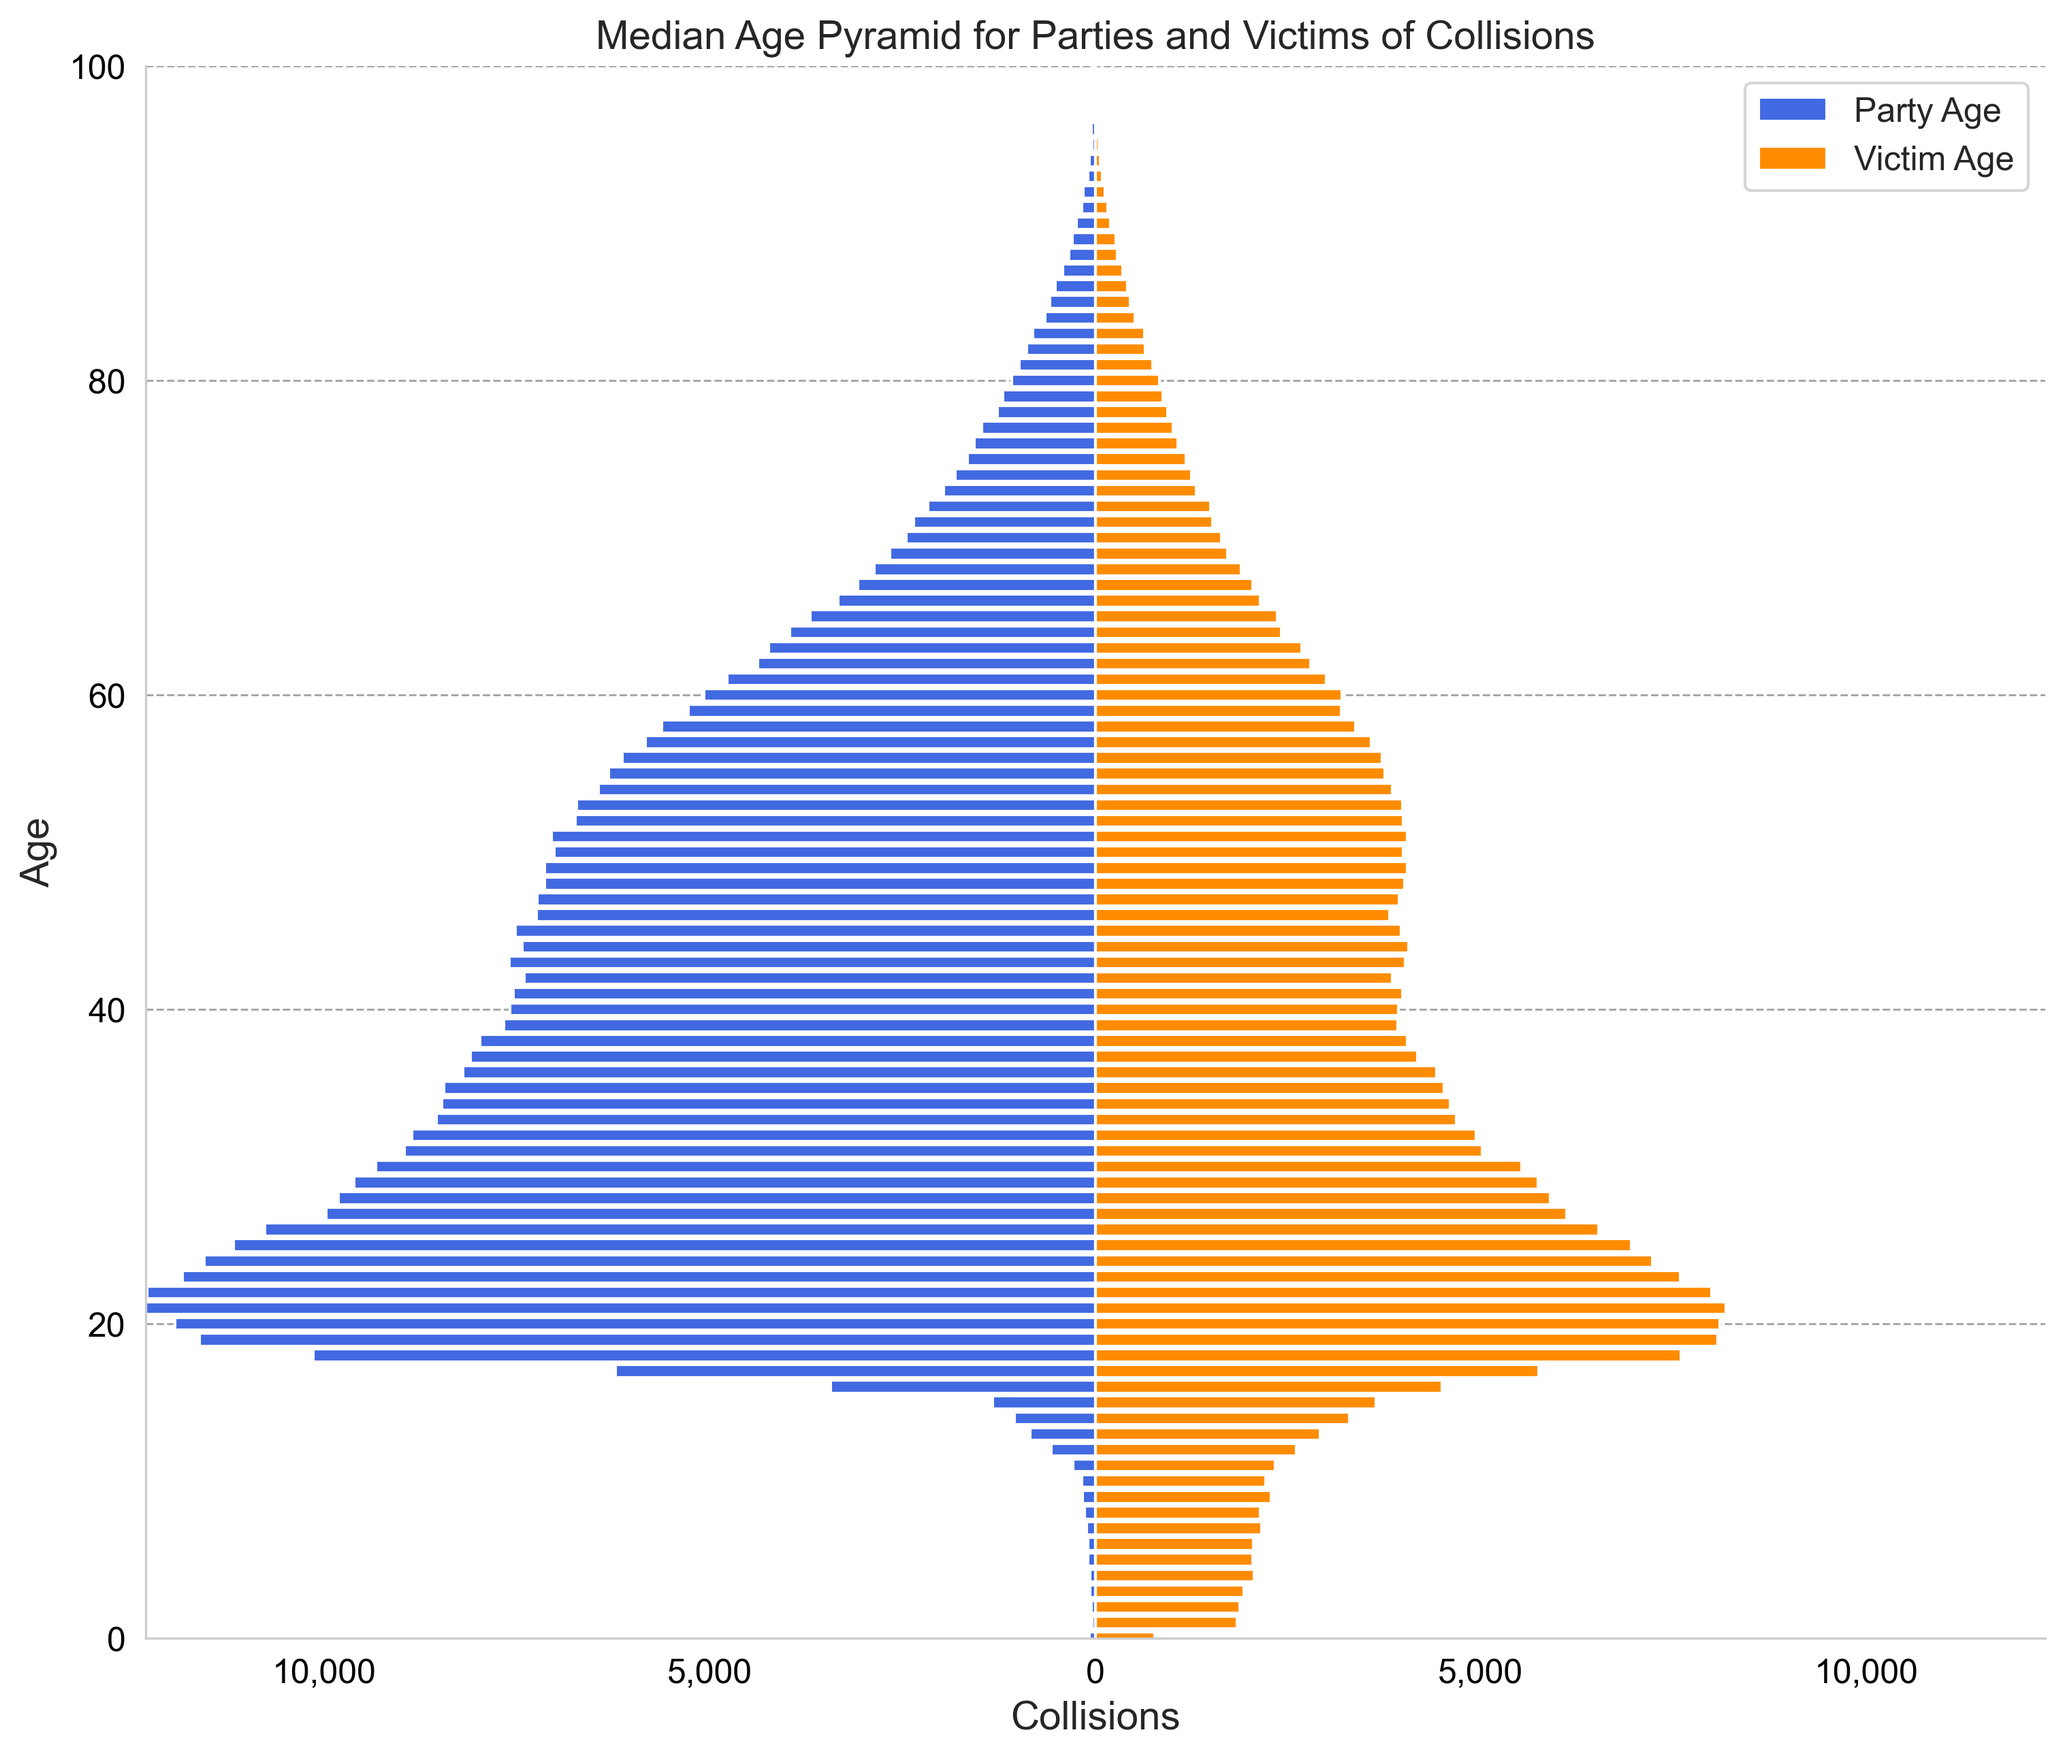
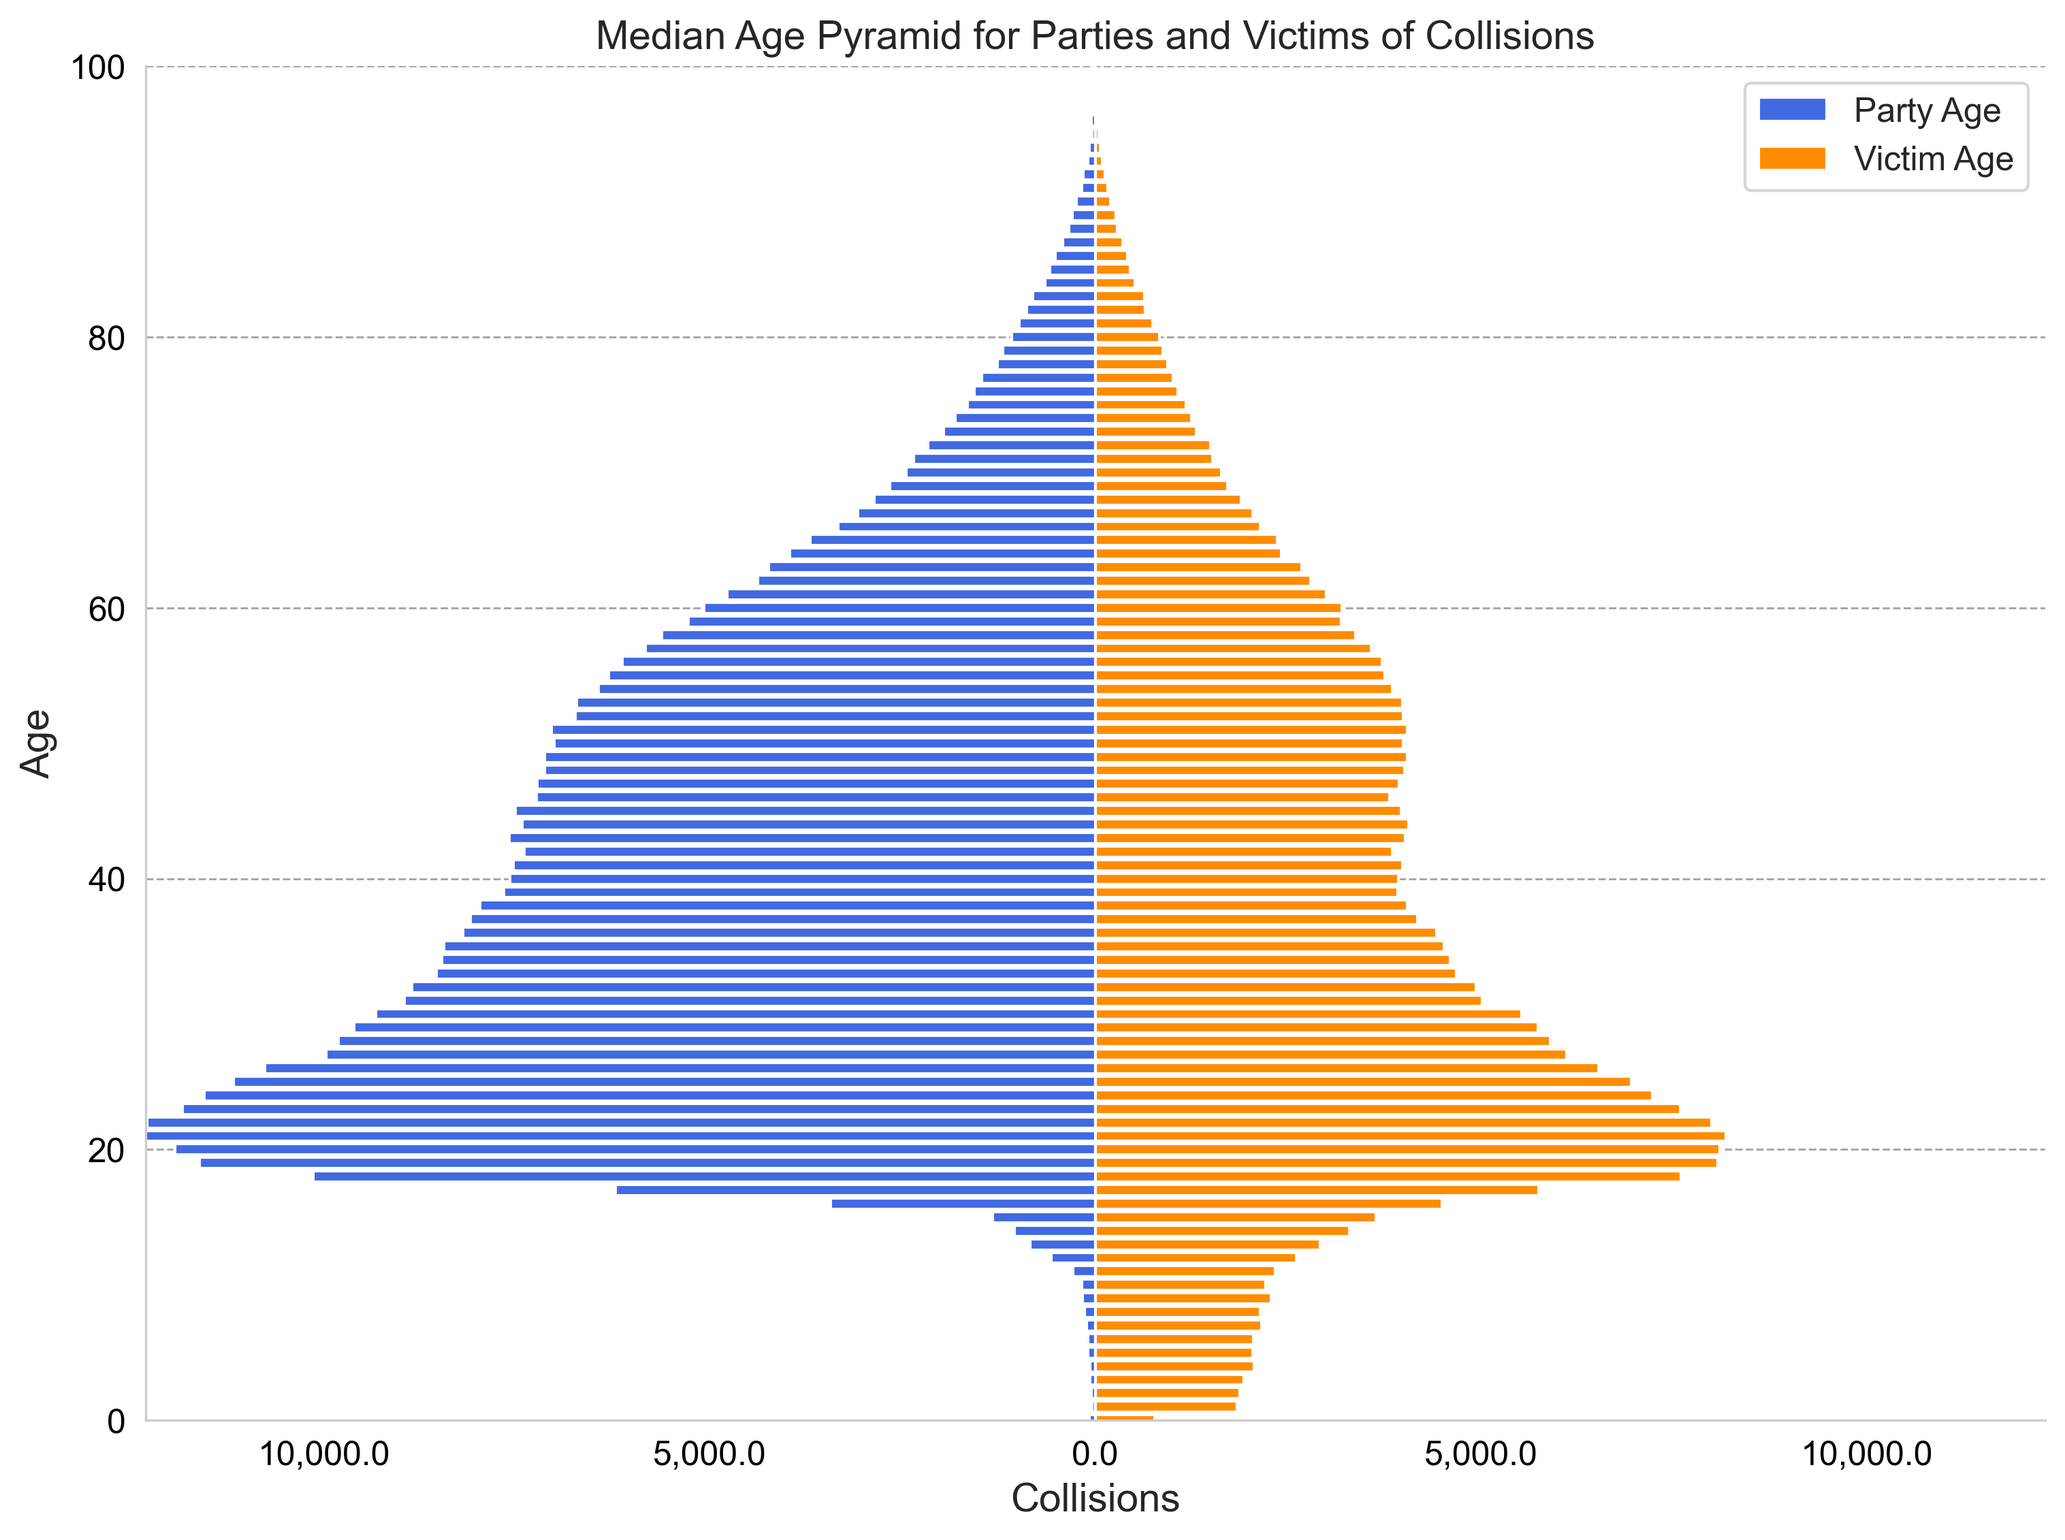
feat: Add scratch script, graphic, and LaTeX variable files; refactor string formatting and improve file encoding.

diff --git a/p04_collision_data_analysis.py b/p04_collision_data_analysis.py
@@ -368,11 +368,11 @@ tbl1_tests = pd.DataFrame(
     {
         "dataset": ["crashes", "parties", "victims", "parties", "victims"],
         "observations": [
-            "{:,}".format(crashes_chi2["observations"]),
-            "{:,}".format(parties_chi2["observations"]),
-            "{:,}".format(victims_chi2["observations"]),
-            "{:,}".format(parties_kw["observations"]),
-            "{:,}".format(victims_kw["observations"]),
+            f"{crashes_chi2['observations']:,}",
+            f"{parties_chi2['observations']:,}",
+            f"{victims_chi2['observations']:,}",
+            f"{parties_kw['observations']:,}",
+            f"{victims_kw['observations']:,}",
         ],
         "test": [
             crashes_chi2["test"],
@@ -416,30 +416,30 @@ tbl1_data = pd.DataFrame(
     {
         "severity": pd.concat([x1["severity"], pd.Series(["p-value"])], ignore_index = True),
         "crashes": pd.concat(
-            [x1["count"].apply(lambda x: "{:,}".format(x)), pd.Series([crashes_chi2["p-value_display"]])],
+            [x1["count"].apply(lambda x: f"{x:,}"), pd.Series([crashes_chi2["p-value_display"]])],
             ignore_index = True,
         ),
         "parties": pd.concat(
-            [x2["count"].apply(lambda x: "{:,}".format(x)), pd.Series([crashes_chi2["p-value_display"]])],
+            [x2["count"].apply(lambda x: f"{x:,}"), pd.Series([crashes_chi2["p-value_display"]])],
             ignore_index = True,
         ),
         "victims": pd.concat(
-            [x3["count"].apply(lambda x: "{:,}".format(x)), pd.Series([crashes_chi2["p-value_display"]])],
+            [x3["count"].apply(lambda x: f"{x:,}"), pd.Series([crashes_chi2["p-value_display"]])],
             ignore_index = True,
         ),
         "party_mean": pd.concat(
-            [x2["mean"].apply(lambda x: "{:,.3f}".format(x)), pd.Series([parties_kw["p-value_display"]])],
+            [x2["mean"].apply(lambda x: f"{x:,.3f}"), pd.Series([parties_kw["p-value_display"]])],
             ignore_index = True,
         ),
-        "party_std": pd.concat([x2["std"].apply(lambda x: "{:,.3f}".format(x)), pd.Series([""])], ignore_index = True),
+        "party_std": pd.concat([x2["std"].apply(lambda x: f"{x:,.3f}"), pd.Series([""])], ignore_index = True),
         "party_range": pd.concat(
             [x2.apply(lambda row: f"{row['min']}-{row['max']}", axis = 1), pd.Series([""])], ignore_index = True
         ),
         "victim_mean": pd.concat(
-            [x3["mean"].apply(lambda x: "{:,.3f}".format(x)), pd.Series([victims_kw["p-value_display"]])],
+            [x3["mean"].apply(lambda x: f"{x:,.3f}"), pd.Series([victims_kw["p-value_display"]])],
             ignore_index = True,
         ),
-        "victim_std": pd.concat([x3["std"].apply(lambda x: "{:,.3f}".format(x)), pd.Series([""])], ignore_index = True),
+        "victim_std": pd.concat([x3["std"].apply(lambda x: f"{x:,.3f}"), pd.Series([""])], ignore_index = True),
         "victim_range": pd.concat(
             [x3.apply(lambda row: f"{row['min']}-{row['max']}", axis = 1), pd.Series([""])], ignore_index = True
         ),
@@ -508,8 +508,8 @@ tbl1_latex = tbl1_latex.replace("<", "\\textless{}")
 tbl1_latex = tbl1_latex.replace("mean", "\\textit{mean}")
 tbl1_latex = tbl1_latex.replace("std", "\\textit{std}")
 tbl1_latex = tbl1_latex.replace("range", "\\textit{range}")
-tbl1_latex = tbl1_latex.replace(f"Party Count", "Party Count\\footnotemark[1]")
-tbl1_latex = tbl1_latex.replace(f"Victim Count", "Victim Count\\footnotemark[1]")
+tbl1_latex = tbl1_latex.replace("Party Count", "Party Count\\footnotemark[1]")
+tbl1_latex = tbl1_latex.replace("Victim Count", "Victim Count\\footnotemark[1]")
 
 # Split the LaTeX table into lines for easier manipulation
 tbl1_latex_lines = tbl1_latex.splitlines()
@@ -549,7 +549,7 @@ print(tbl1_latex)
 # Define the path to save the LaTeX table
 tbl1_path = graphics_list["tables"]["tbl1"]["path"]
 # Save the LaTeX table to a file
-with open(tbl1_path, "w", encoding="utf-8") as f:
+with open(tbl1_path, "w", encoding = "utf-8") as f:
     f.write(tbl1_latex)
     print(f"\n- Table 1 saved to {tbl1_path}")
 
@@ -575,7 +575,7 @@ with open(latex_vars_path, "w", encoding = "utf-8") as json_file:
 
 # Save the LaTeX variables dictionary to a .tex file
 latex_vars_tex_path = os.path.join(prj_dirs["graphics"], "latex_vars.tex")
-with open(latex_vars_tex_path, "w") as f:
+with open(latex_vars_tex_path, "w", encoding = "utf-8") as f:
     for key, value in latex_vars.items():
         f.write(f"\\newcommand{{\\{key}}}{{{value}}}\n")
 
@@ -712,9 +712,9 @@ tbl2_tests = pd.DataFrame(
     {
         "dataset": ["crashes", "parties", "victims"],
         "observations": [
-            "{:,}".format(crashes_chi2["observations"]),
-            "{:,}".format(parties_chi2["observations"]),
-            "{:,}".format(victims_chi2["observations"]),
+            f"{crashes_chi2['observations']:,}",
+            f"{parties_chi2['observations']:,}",
+            f"{victims_chi2['observations']:,}",
         ],
         "test": [crashes_chi2["test"], parties_chi2["test"], victims_chi2["test"]],
         "statistic": [crashes_chi2["statistic"], parties_chi2["statistic"], victims_chi2["statistic"]],
@@ -835,7 +835,7 @@ print(tbl2_latex)
 # Define the path to save the LaTeX table
 tbl2_path = graphics_list["tables"]["tbl2"]["path"]
 # Save the LaTeX table to a file
-with open(tbl2_path, "w", encoding="utf-8") as f:
+with open(tbl2_path, "w", encoding = "utf-8") as f:
     f.write(tbl2_latex)
     print(f"\n- Table 2 saved to {tbl2_path}")
 
@@ -1462,9 +1462,9 @@ tbl4_latex = "\n".join(tbl4_latex_lines)
 # Delete the temporary latex lines
 del tbl4_latex_lines
 
-tbl4_latex = tbl4_latex.replace(f"Severity", "Severity\\footnotemark[2]")
-tbl4_latex = tbl4_latex.replace(f"Hit and Run", "Hit and Run\\footnotemark[3]")
-tbl4_latex = tbl4_latex.replace(f"Lighting", "Lighting\\footnotemark[4]")
+tbl4_latex = tbl4_latex.replace("Severity", "Severity\\footnotemark[2]")
+tbl4_latex = tbl4_latex.replace("Hit and Run", "Hit and Run\\footnotemark[3]")
+tbl4_latex = tbl4_latex.replace("Lighting", "Lighting\\footnotemark[4]")
 
 # Add footnotes after the table
 footnotes = (
@@ -1488,7 +1488,7 @@ print(tbl4_latex)
 # Define the path to save the LaTeX table
 tbl4_path = graphics_list["tables"]["tbl4"]["path"]
 # Save the LaTeX table to a file
-with open(tbl4_path, "w", encoding="utf-8") as f:
+with open(tbl4_path, "w", encoding = "utf-8") as f:
     f.write(tbl4_latex)
     print(f"\n- Table 4 saved to {tbl4_path}")
 
@@ -1619,27 +1619,27 @@ tbl5_mod = tbl5_data.copy().astype(str)
 
 # Create the LaTeX table from the data frame
 tbl5_latex = tbl5_mod.to_latex(
-    buf=None,
-    columns=None,
-    header=True,
-    index=False,
-    na_rep="NaN",
-    formatters=None,
-    float_format=None,
-    sparsify=None,
-    index_names=True,
-    bold_rows=False,
-    column_format="crrrrrrrrrrrrrrrr",
-    longtable=False,
-    escape=False,
-    encoding=None,
-    decimal=".",
-    multicolumn=True,
-    multicolumn_format="c",
-    multirow=True,
-    caption=graphics_list["tables"]["tbl5"]["caption"],
-    label=graphics_list["tables"]["tbl5"]["id"].lower(),
-    position=None,
+    buf = None,
+    columns = None,
+    header = True,
+    index = False,
+    na_rep = "NaN",
+    formatters = None,
+    float_format = None,
+    sparsify = None,
+    index_names = True,
+    bold_rows = False,
+    column_format = "crrrrrrrrrrrrrrrr",
+    longtable = False,
+    escape = False,
+    encoding = None,
+    decimal = ".",
+    multicolumn = True,
+    multicolumn_format = "c",
+    multirow = True,
+    caption = graphics_list["tables"]["tbl5"]["caption"],
+    label = graphics_list["tables"]["tbl5"]["id"].lower(),
+    position = None,
 )
 
 # Change the LaTeX table to use the 'sidewaystable' style
@@ -1668,7 +1668,7 @@ print(tbl5_latex)
 # Define the path to save the LaTeX table
 tbl5_path = graphics_list["tables"]["tbl5"]["path"]
 # Save the LaTeX table to a file
-with open(tbl5_path, "w", encoding="utf-8") as f:
+with open(tbl5_path, "w", encoding = "utf-8") as f:
     f.write(tbl5_latex)
     print(f"\n- Table 5 saved to {tbl5_path}")
 

diff --git a/octraffic.py b/octraffic.py
@@ -1961,13 +1961,11 @@ class OCTraffic:
         severity_std = data["severity"].std()
 
         # Function to format y-axis ticks for victims
-        #def victims_formatter(x, pos):
-        def victims_formatter(x):
+        def victims_formatter(x, pos):
             return f"{z_to_original(x, victims_mean, victims_std):.0f}"
 
         # Function to format y-axis ticks for severity
-        #def severity_formatter(x, pos):
-        def severity_formatter(x):
+        def severity_formatter(x, pos):
             return f"{z_to_original(x, severity_mean, severity_std):.2f}"
 
         # Apply formatters to axes
@@ -2083,8 +2081,7 @@ class OCTraffic:
         ax.barh(victim_data["Age"], victim_data["Freq"], color = "darkorange", label = "Victim Age")
 
         # Format x-axis labels with commas and no negative signs
-        #def abs_comma(x, pos):
-        def abs_comma(x):
+        def abs_comma(x, pos):
             result = f"{abs(x):,}" 
             return result
 

diff --git a/p05_time_series_analysis.py b/p05_time_series_analysis.py
@@ -23,7 +23,6 @@ print("\n1.1. Libraries and Initialization")
 # Import necessary libraries
 import os
 import datetime as dt
-import json
 import pandas as pd
 import matplotlib.pyplot as plt
 from dotenv import load_dotenv
@@ -816,7 +815,7 @@ fig9.savefig(
     backend = None,
 )
 
-plt.close(fig)  # Close the figure to free memory
+plt.close(fig9)  # Close the figure to free memory
 
 
 #~~~~~~~~~~~~~~~~~~~~~~~~~~~~~~~~~~~~~~~~~~~~~~~~~~~~~~~~~~~~~~~~~~~~~~~~~~~~~~~~
@@ -837,4 +836,4 @@ ocs.save_to_disk(
 #~~~~~~~~~~~~~~~~~~~~~~~~~~~~~~~~~~~~~~~~~~~~~~~~~~~~~~~~~~~~~~~~~~~~~~~~~~~~~~~~
 print("\nLast Execution:", dt.datetime.now().strftime("%Y-%m-%d"))
 print("\nEnd of Script")
-# Last Executed: 2025-12-26
+# Last Executed: 2025-12-30

diff --git a/scripts/scratch.py b/scripts/scratch.py
@@ -7,17 +7,3 @@ ocs = OCTraffic(part = 1, version = 2025.3)
 prj_meta = ocs.project_metadata(silent = False)
 prj_dirs = ocs.project_directories(silent = False)
 cb = ocs.load_cb()
-
-# Define the path to the raw geodatabase
-gdb_raw = prj_dirs["agp_gdb_raw"]
-gdbmain_raw = prj_dirs["gdbmain_raw"]
-
-prj_dirs["agp_gdb"]
-prj_dirs["gdbmain"]
-
-
-for fc in ["crashes", "parties", "victims", "collisions"]:
-    ocs.delete_feature_class(fc, gdb_path = prj_dirs["agp_gdb"], dataset = "raw")
-
-for fc in ["crashes", "parties", "victims", "collisions"]:
-    ocs.delete_feature_class(fc, gdb_path = prj_dirs["gdbmain"], dataset = "raw")

diff --git a/graphics/latex_vars.tex b/graphics/latex_vars.tex
@@ -1,5 +1,5 @@
 \newcommand{\prjVersion}{2025.3}
-\newcommand{\prjUpdated}{December 29, 2025}
+\newcommand{\prjUpdated}{December 30, 2025}
 \newcommand{\prjDateWhole}{September 30, 2025}
 \newcommand{\prjDateUs}{09/30/2025}
 \newcommand{\prjMonths}{165}
